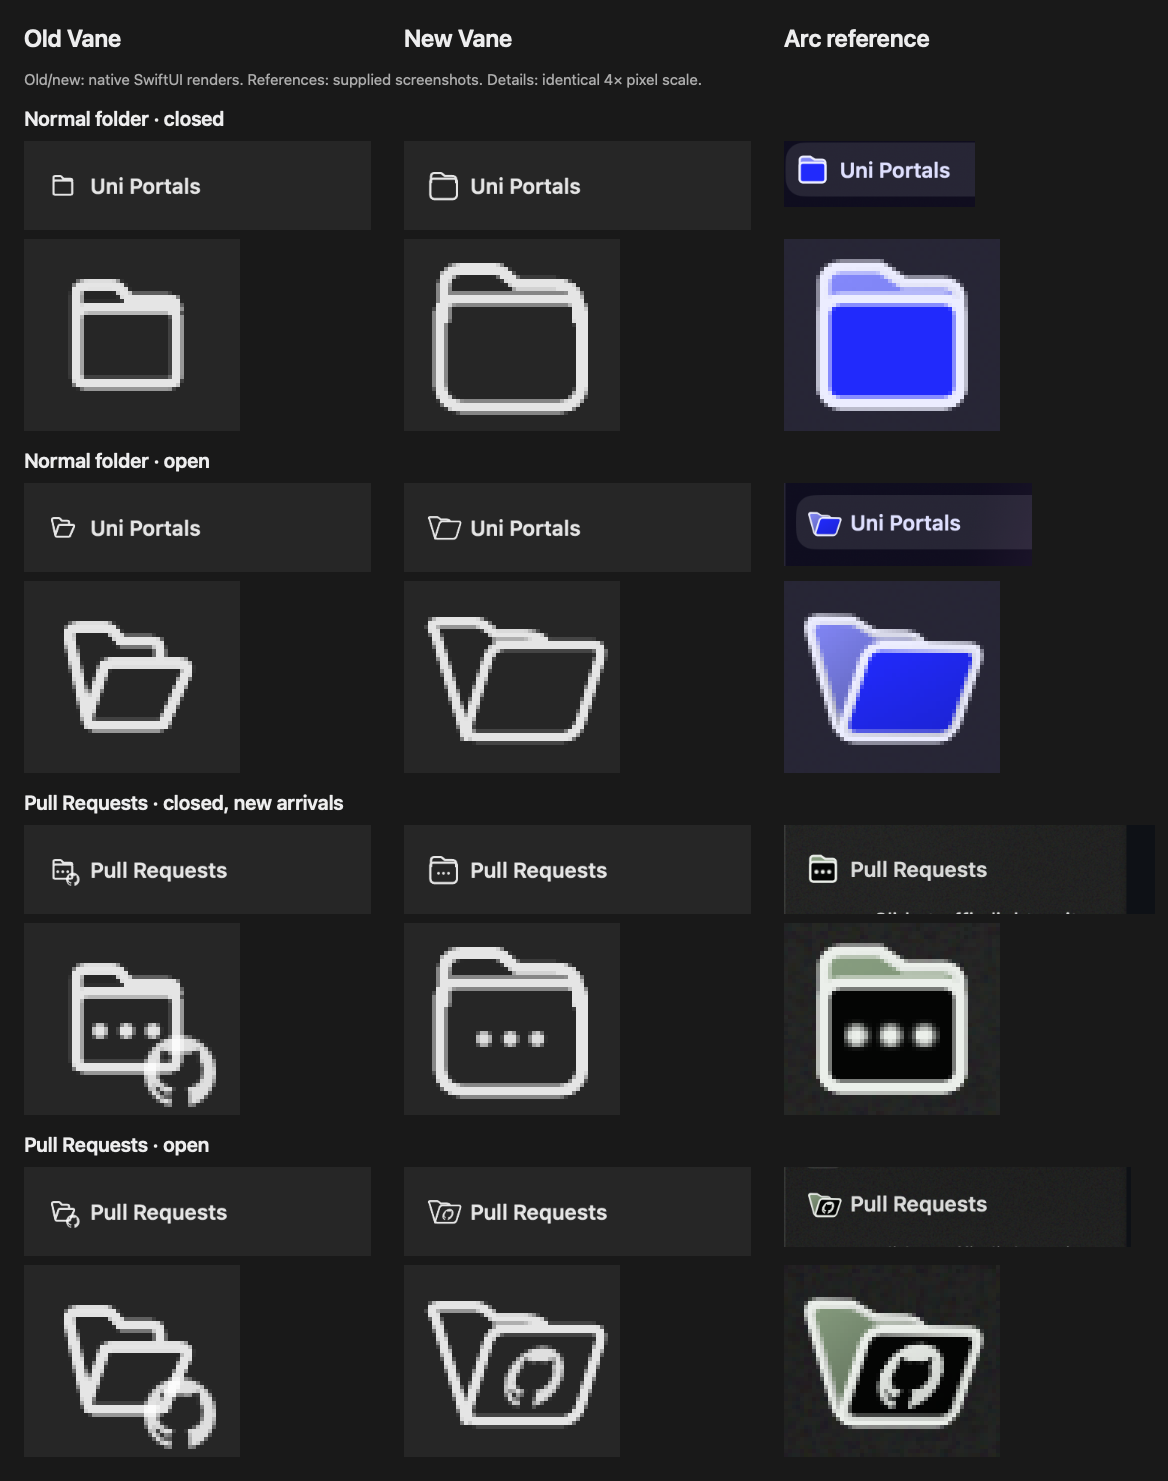
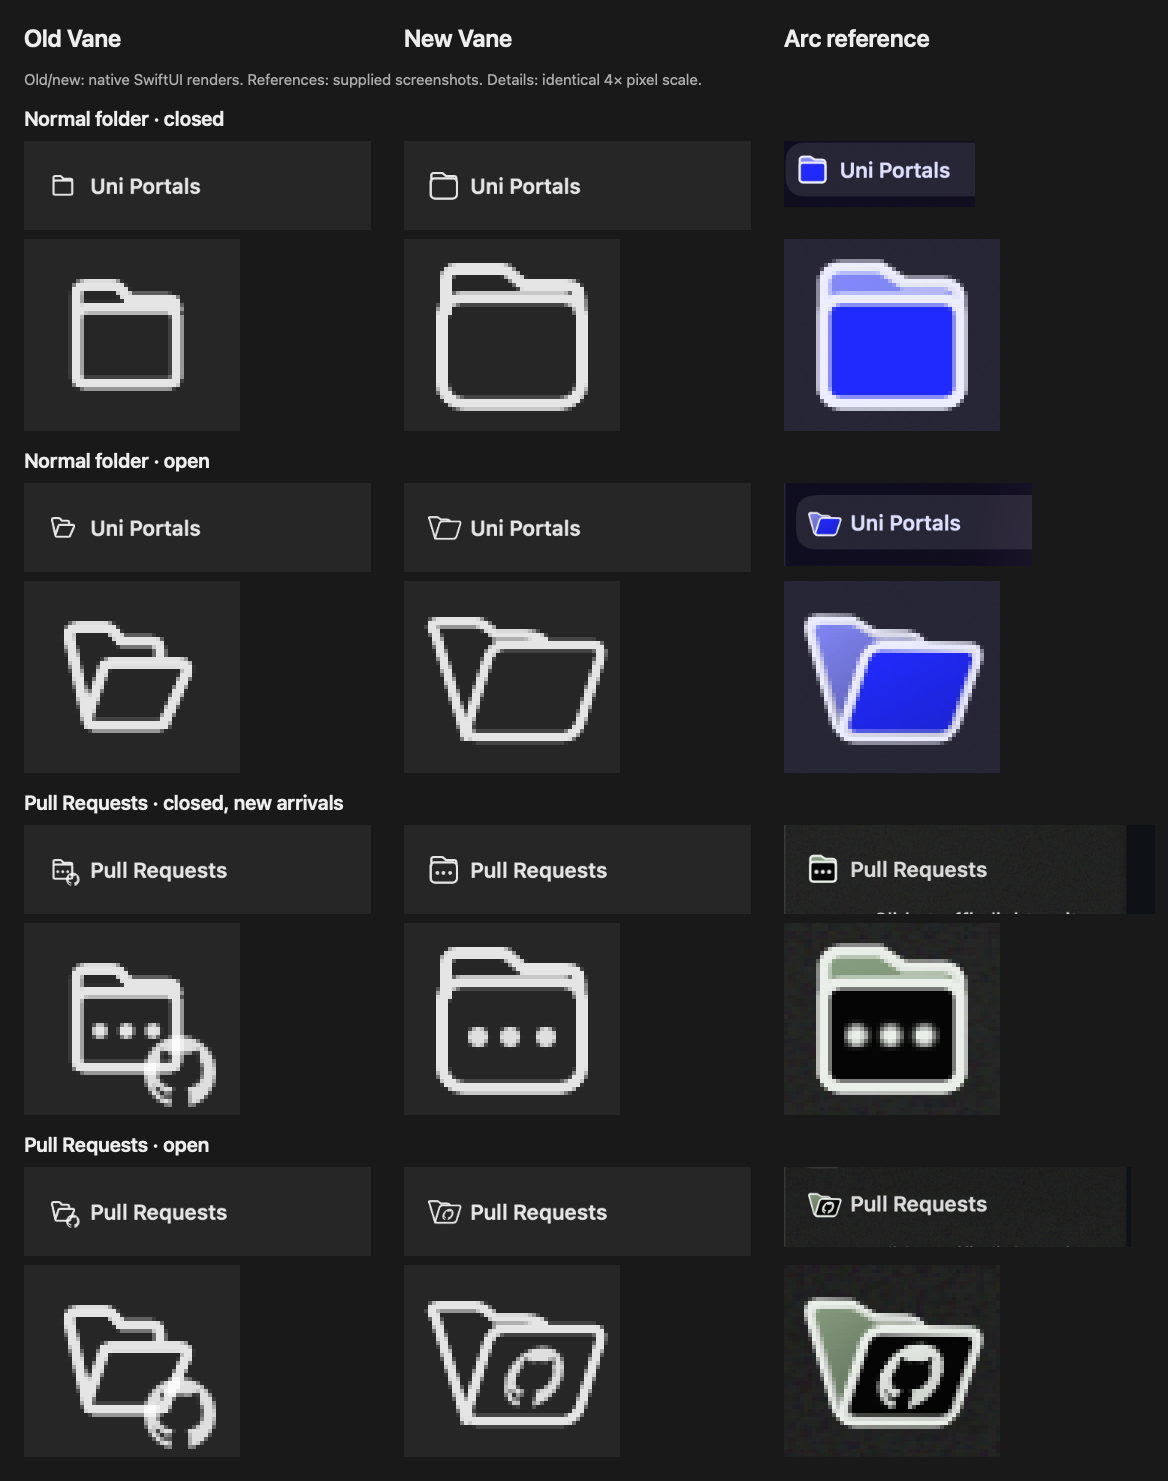
Match closed folder curves and dots, add motion comparison [skip ci]

Changed region(s): [[0.3699, 0.6212, 0.4932, 0.7454], [0.3699, 0.1864, 0.4932, 0.2795]]

diff --git a/Sources/Vane/FolderIcon.swift b/Sources/Vane/FolderIcon.swift
@@ -63,33 +63,47 @@ private struct FolderOutline: Shape {
         }
         var path = Path()
         // The back tab's curves are independent of the front's rounded corners.
-        path.move(to: point(0, 6, 2.75, 15.35))
-        path.addLine(to: point(0, 1.75, -1.05, 2.6))
-        path.addCurve(to: point(2.25, -0.25, -0.55, 1.15),
-                      control1: point(0, 0.4, -1.85, 1.65),
-                      control2: point(1, -0.25, -1.6, 1.15))
-        path.addLine(to: point(6.1, -0.25, 4, 1.15))
-        path.addCurve(to: point(7.8, 0.55, 5.55, 1.9),
-                      control1: point(7, -0.25, 4.6, 1.15),
-                      control2: point(7.4, 0.2, 5, 1.5))
-        path.addLine(to: point(9.1, 1.65, 6.5, 2.7))
-        path.addLine(to: point(13.75, 1.65, 10.1, 2.7))
-        path.addCurve(to: point(16.75, 4, 12.65, 3.75),
-                      control1: point(15.4, 1.65, 11.5, 2.7),
-                      control2: point(16.75, 2.4, 12.5, 3.3))
+        path.move(to: point(0.25, 5, 2.75, 15.35))
+        path.addLine(to: point(0.25, 1.25, -1.05, 2.6))
+        path.addCurve(to: point(1.75, -0.25, -0.55, 1.15),
+                      control1: point(0.25, 0.25, -1.85, 1.65),
+                      control2: point(0.75, -0.25, -1.6, 1.15))
+        path.addLine(to: point(7, -0.25, 4, 1.15))
+        path.addCurve(to: point(8.5, 0.5, 5.55, 1.9),
+                      control1: point(7.75, -0.25, 4.6, 1.15),
+                      control2: point(8, 0, 5, 1.5))
+        path.addLine(to: point(10, 1.75, 6.5, 2.7))
+        path.addLine(to: point(15, 1.75, 10.1, 2.7))
+        path.addCurve(to: point(17, 3.75, 12.65, 3.75),
+                      control1: point(16.5, 1.75, 11.5, 2.7),
+                      control2: point(17, 2.25, 12.5, 3.3))
         // End behind the front's top edge, rather than drawing through the panel.
-        path.addLine(to: point(16.75, 6, 12.7, 3.75))
+        path.addLine(to: point(17, 5, 12.7, 3.75))
+        let frontBounds = CGRect(x: -0.25 - 0.25 * openness, y: 3.375 + 0.125 * openness,
+                                 width: 17.5 + 0.25 * openness, height: 13.25 + 0.25 * openness)
+        let topRadius = 2.25 - 0.5 * openness
         let bottomRadius = 2.75 - 0.75 * openness
-        let front = UnevenRoundedRectangle(topLeadingRadius: 1.75,
+        let front = UnevenRoundedRectangle(topLeadingRadius: topRadius,
                                            bottomLeadingRadius: bottomRadius,
                                            bottomTrailingRadius: bottomRadius,
-                                           topTrailingRadius: 1.75,
+                                           topTrailingRadius: topRadius,
                                            style: .circular)
-            .path(in: FolderFace.bounds)
+            .path(in: frontBounds)
             .applying(FolderFace.projection(openness))
         path.addPath(front)
         return path.applying(CGAffineTransform(a: rect.width / 16, b: 0,
                                               c: 0, d: rect.height / 16,
                                               tx: rect.minX, ty: rect.minY))
+    }
+}
+
+/// Three geometric dots keep their diameter and spacing independent of SF font metrics.
+struct FolderArrivalDots: View {
+    var body: some View {
+        HStack(spacing: 1.75) {
+            ForEach(0..<3) { _ in Circle().frame(width: 2.5, height: 2.5) }
+        }
+        .fixedSize()
+        .accessibilityHidden(true)
     }
 }

diff --git a/Sources/Vane/LiveFoldersUI.swift b/Sources/Vane/LiveFoldersUI.swift
@@ -306,8 +306,7 @@ struct LiveBadge: View {
     var body: some View {
         Group {
             if showsArrivals {
-                Image(systemName: "ellipsis")
-                    .font(.system(size: 9, weight: .bold))
+                FolderArrivalDots()
             } else {
                 GitHubMark().fill(.foreground)
             }
